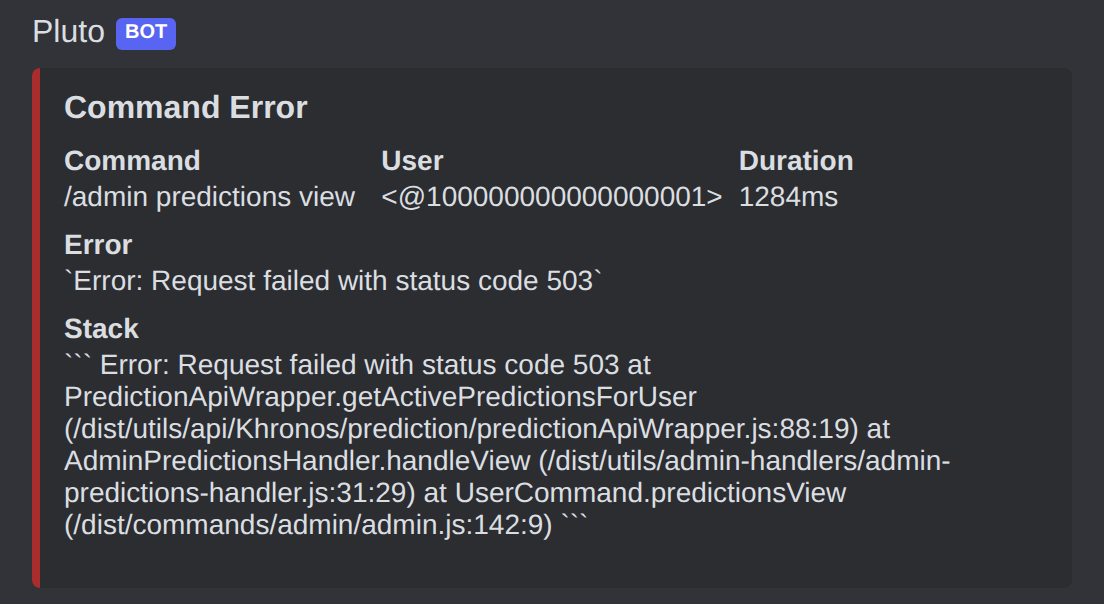
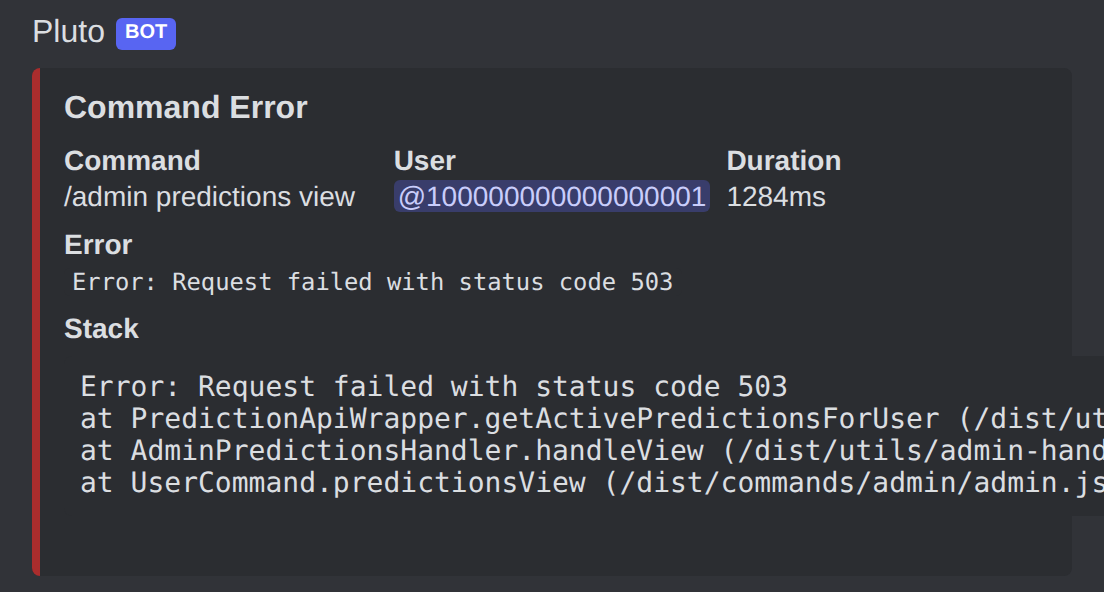
docs(cv2): re-render before screens with field markdown support

diff --git a/docs/components-v2/README.md b/docs/components-v2/README.md
@@ -126,6 +126,6 @@ Status: ⬜ todo · 📸 before captured · 🔁 migrated (after + GIF) · ✅ m
 ## Known render limits
 
 - Remote images come from `scripts/cv2/fixtures/images/`. The Pluto logo is real (imgbb); the guild icon and match image are labelled placeholders.
-- `-#` subtext draws literally, and markdown/newlines inside embed **field values** show as raw text, until discord-preview supports them. The JSON is correct and Discord renders it properly. Once the renderer is fixed, re-run `render.sh` on the existing JSON; no re-dump needed.
+- Renders need discord-preview ≥ `3c73153` (field markdown, #15; `-#` subtext, #14). Older checkouts draw both as raw text. Run `git -C ../discord-preview pull` before rendering.
 - Guild custom emojis don't exist offline, so team names use each code path's no-emoji fallback.
 - Dates render in UTC (pinned in the dump harness to match production).
